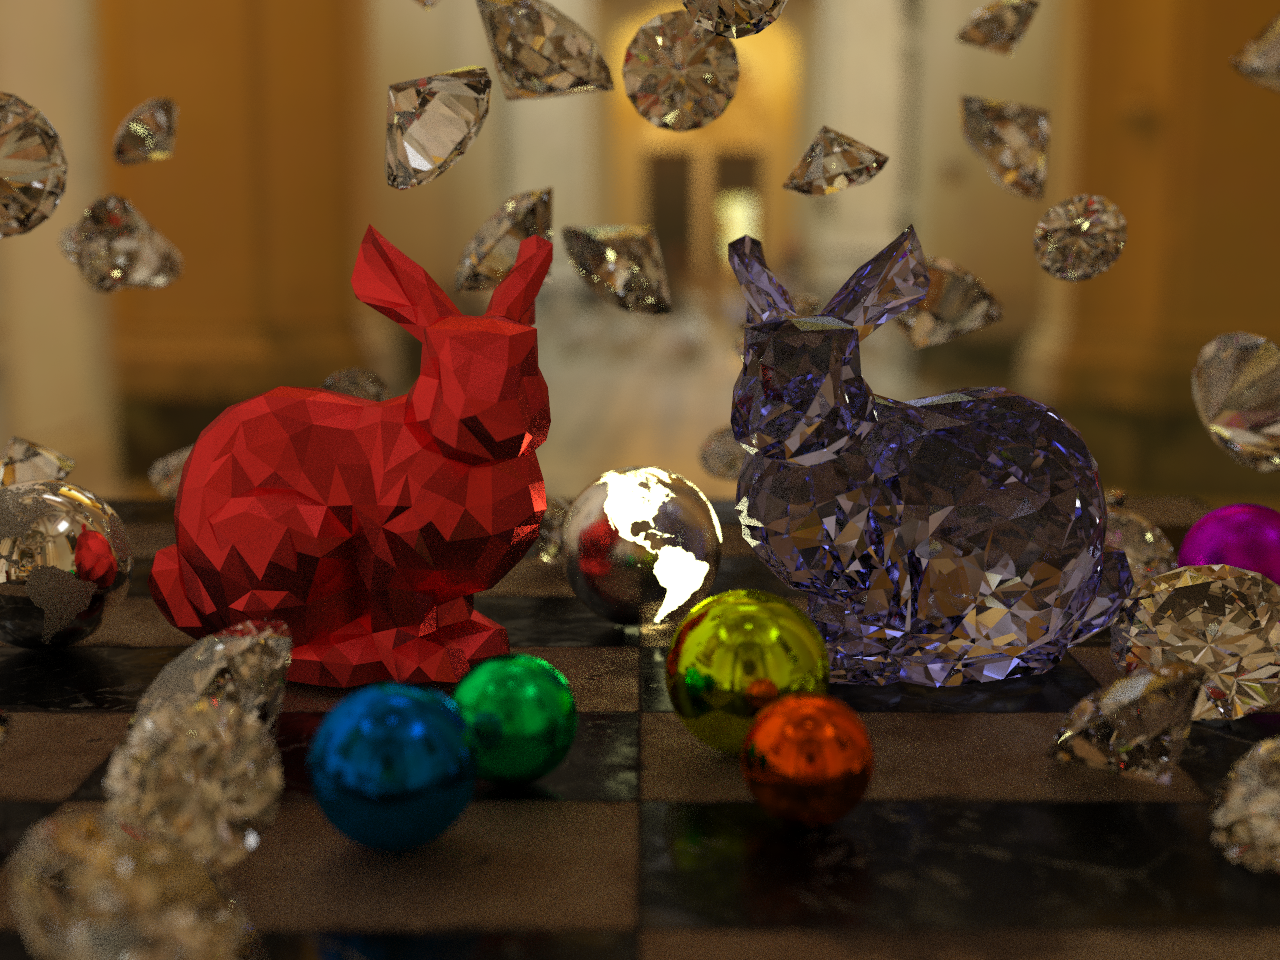
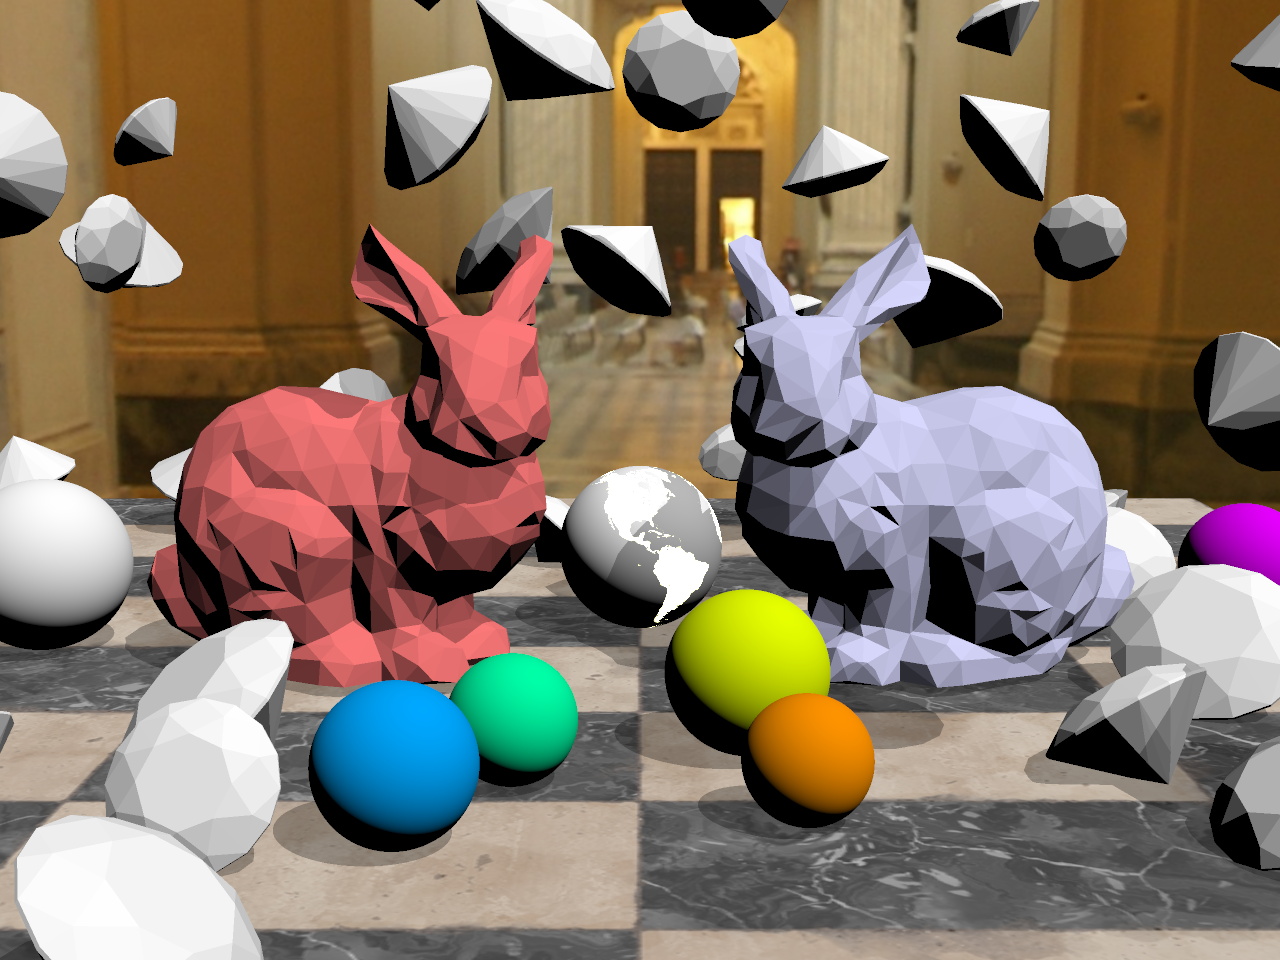
Fix DebugRenderer

diff --git a/src/renderer.rs b/src/renderer.rs
@@ -87,7 +87,7 @@ pub trait Renderer: Sync {
 }
 
 pub enum DebugRenderMode {
-    Color,
+    AlbedoAndShadow,
     Normal,
     Depth,
     DepthFromFocus,
@@ -106,7 +106,7 @@ impl Renderer for DebugRenderer {
         let (hit, intersection) = scene.intersect(&ray);
         if hit {
             match self.mode {
-                DebugRenderMode::Color => {
+                DebugRenderMode::AlbedoAndShadow => {
                     let shadow_ray = Ray {
                         origin: intersection.position + intersection.normal * config::OFFSET,
                         direction: light_direction,
@@ -125,9 +125,9 @@ impl Renderer for DebugRenderer {
         }
     }
 
-    #[allow(unused_variables)]
     fn report_progress(&mut self, accumulation_buf: &mut Vec<Vector3>, sampling: u32, imgbuf: &mut ImageBuffer<Rgb<u8>, Vec<u8>>) {
-        // Nop
+        // on finish
+        Self::update_imgbuf(accumulation_buf, sampling, imgbuf);
     }
 }
 

diff --git a/src/main.rs b/src/main.rs
@@ -425,8 +425,8 @@ fn main() {
         //let (width, height, sampling) = (1920, 1080, 1000);// FHD 2,073,600 pixel
         //let (width, height, sampling) = (1280, 720, 1000);// HD 921,600 pixel
 
-        let mut renderer = DebugRenderer { mode: DebugRenderMode::DepthFromFocus };
-        let mut renderer = PathTracingRenderer::new(sampling);
+        let mut renderer = DebugRenderer { mode: DebugRenderMode::AlbedoAndShadow };
+        //let mut renderer = PathTracingRenderer::new(sampling);
 
         tee(&mut f, &format!("resolution: {}x{}.", width, height));
         tee(&mut f, &format!("sampling: {}x{} spp.", sampling, config::SUPERSAMPLING * config::SUPERSAMPLING));
